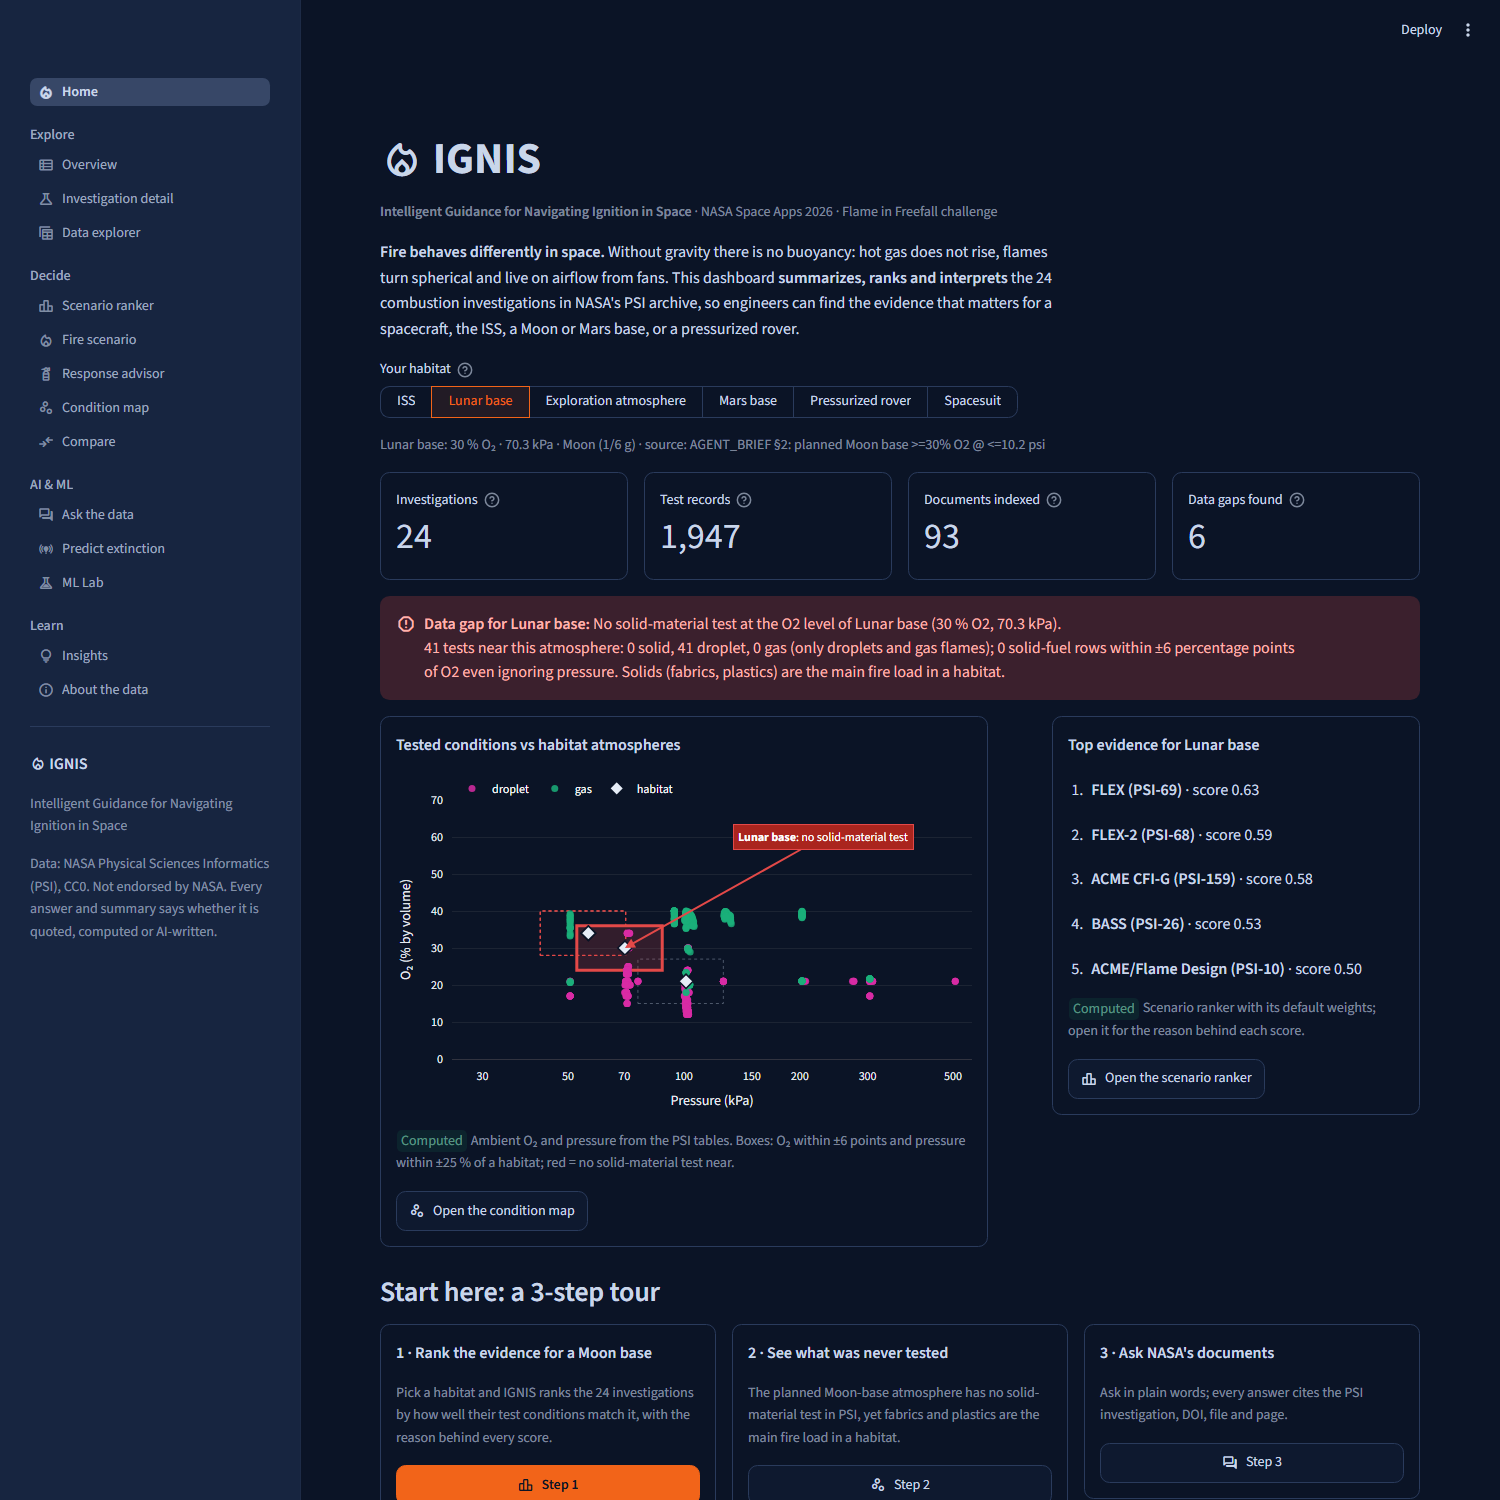
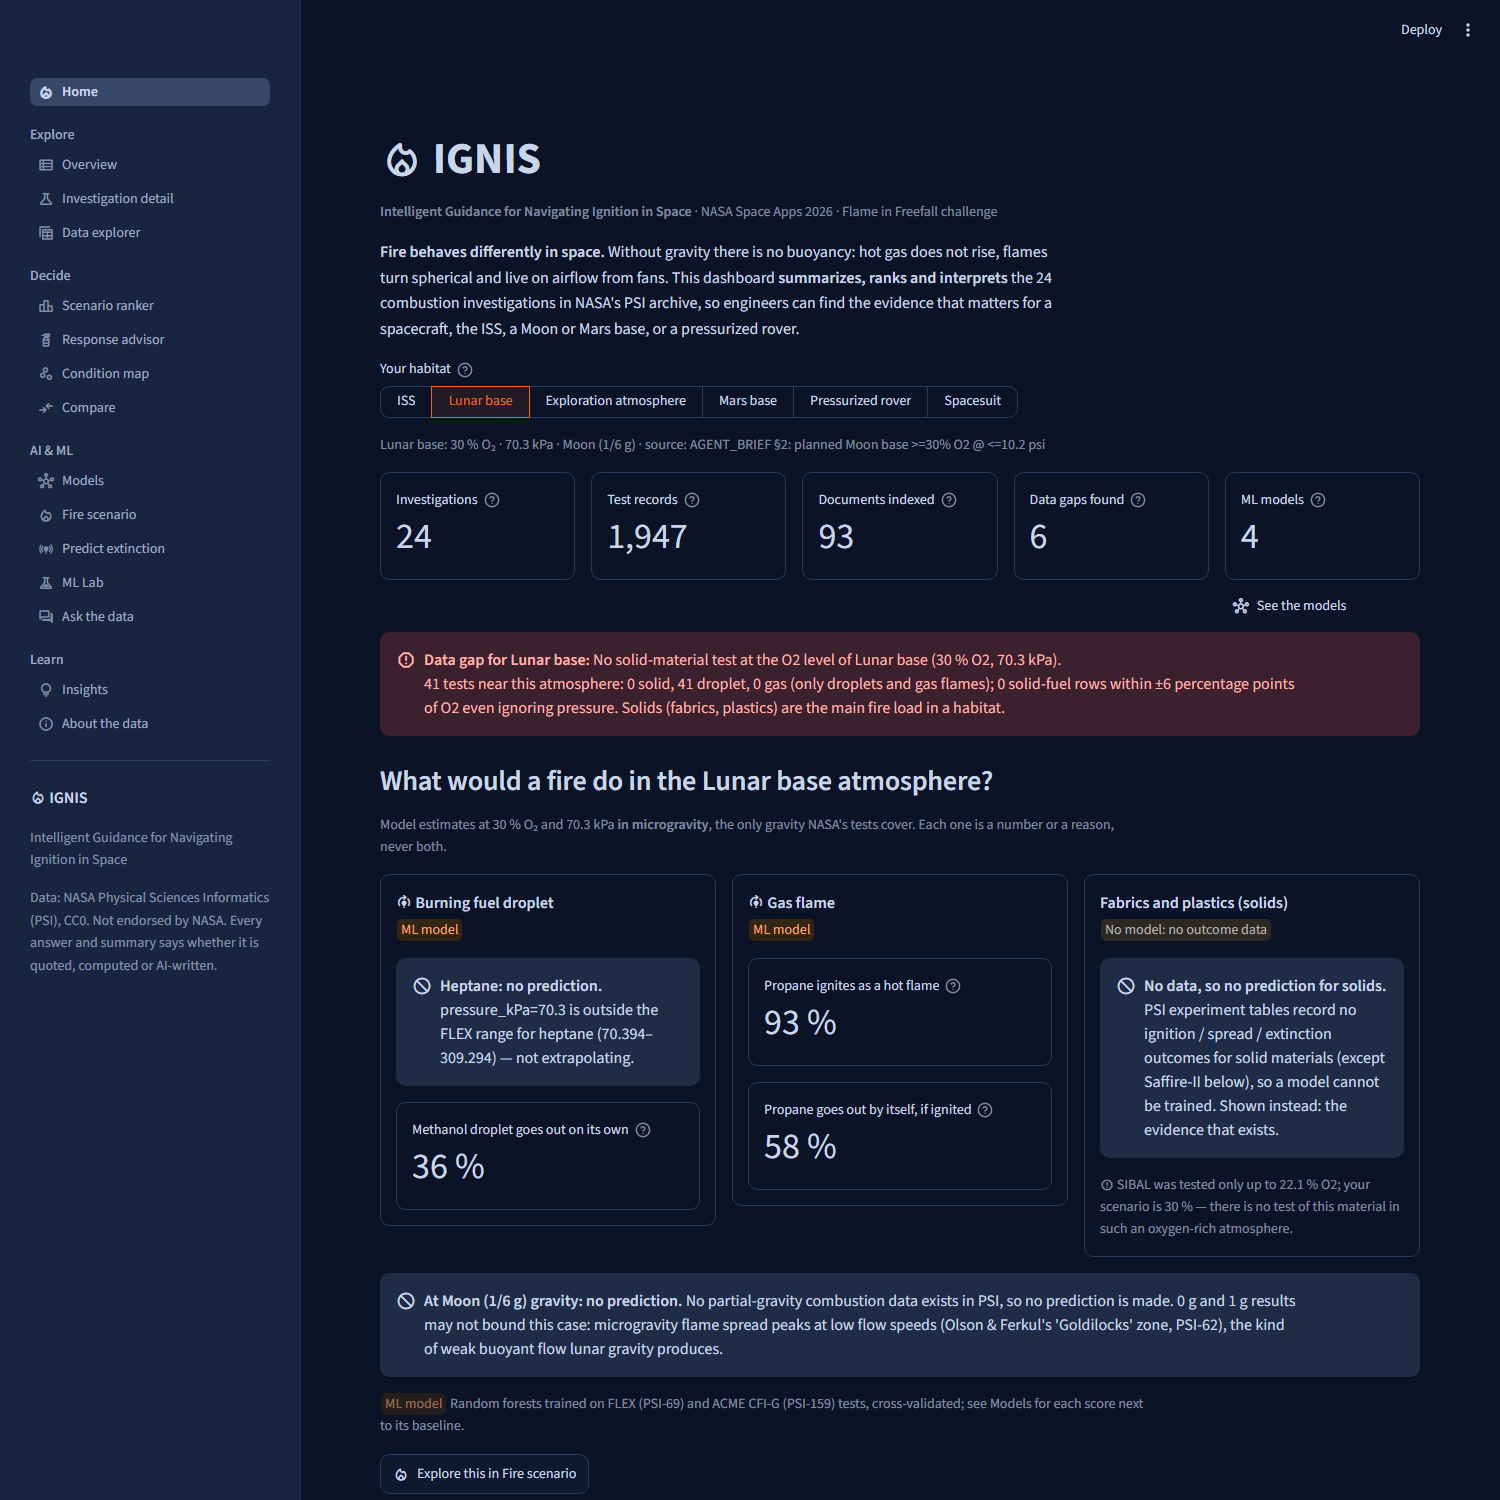
Home: "What would a fire do here?" ML widget for the picked habitat + ML models card
- The habitat picker now also drives model estimates from processed/analysis/habitat_predictions.json
  (main's registry, #57): burning droplet (heptane / methanol goes out on its own), gas flame
  (propane ignites / goes out if ignited), and the designed "no data" state for fabrics and plastics
  with the habitat's solid-material gap. Each value is a number or its reason, never both; Moon / Mars
  get their own "no prediction at this gravity" box. Static copy -> Home never trains a model.
- Number cards: "ML models: 4" with a link to the Models page.
- "Explore this in Fire scenario" opens it with the same habitat.
- Test: Lunar base shows propane ignition, a heptane refusal with its reason (70.3 kPa is just below
  FLEX's range) and no heptane number, "no data" for solids, and the Moon gravity statement.

Refs #58

diff --git a/app/views/home.py b/app/views/home.py
@@ -7,7 +7,7 @@ import streamlit as st
 
 from ai.habitats import HABITATS
 from ai.ranking import rank
-from app import data, ui
+from app import data, ml_ui, ui
 from app.nav import APP_NAME, APP_TAGLINE, CHALLENGE, grouped
 
 invs = data.investigations()
@@ -30,8 +30,9 @@ hc = data.habitat_coverage(habitat)
 st.caption(f"{habitat}: {h['o2_frac'] * 100:g} % O₂ · {h['pressure_kPa']:g} kPa · "
            f"{data.GRAVITY_OPTIONS.get(h.get('gravity'), 'gravity not set')} · source: {h.get('source', '—')}")
 
-# ---------------------------------------------------------------- four headline numbers
-cols = st.columns(4)
+# ---------------------------------------------------------------- headline numbers
+ml_models = [m for m in data.ml_specs() if m.get("kind") == "ml"]
+cols = st.columns(5)
 for col, (label, key, fallback, hlp) in zip(cols, [
     ("Investigations", "investigations", len(invs),
      "Combustion Science investigations in NASA PSI (flight + ground studies)"),
@@ -44,6 +45,9 @@ for col, (label, key, fallback, hlp) in zip(cols, [
 ]):
     v = data.key_number(key, fallback)
     ui.metric_card(col, label, f"{v:,}" if isinstance(v, int) else (v or "—"), help=hlp)
+ui.metric_card(cols[4], "ML models", len(ml_models) or "—",
+               help="Models trained and cross-validated on the PSI test tables (FLEX droplets, ACME CFI-G gas flames).")
+cols[4].page_link("views/models.py", label="See the models", icon=ui.ICONS["models"])
 
 # ---------------------------------------------------------------- gap banner for this habitat
 gaps = data.gaps_for(habitat)
@@ -57,6 +61,60 @@ elif hc:
                        f"({phases.get('solid', 0)} solid, {phases.get('droplet', 0)} droplet, {phases.get('gas', 0)} gas). "
                        f"{o2_only} solid-material tests match its O₂ level but their PSI table has no pressure column.")
 
+
+# ---------------------------------------------------------------- what would a fire do here? (ML, #58)
+def _pct(x) -> str:
+    return f"{x * 100:.0f} %"
+
+
+def _inputs_line(inputs: dict) -> str:
+    keep = {k: v for k, v in inputs.items() if k not in ("fuel", "o2_frac", "pressure_kPa")}
+    return ", ".join(f"{ml_ui.COLUMN.get(k, k).lower()} {v:g}" for k, v in keep.items() if isinstance(v, (int, float)))
+
+
+hp = data.habitat_prediction(habitat)
+ui.section(f"What would a fire do in the {habitat} atmosphere?")
+if not hp:
+    ui.empty_state("Model estimates are not available (processed/analysis/habitat_predictions.json is missing).")
+else:
+    mg = hp.get("in_microgravity") or {}
+    st.caption(f"Model estimates at {hp['o2_frac'] * 100:g} % O₂ and {hp['pressure_kPa']:g} kPa **in microgravity**, the "
+               "only gravity NASA's tests cover. Each one is a number or a reason, never both.")
+    c1, c2, c3 = st.columns(3)
+    with ui.card(c1):
+        st.markdown(f"**{ml_ui.ICON} Burning fuel droplet**  \n{ml_ui.KIND_BADGE['ml']}")
+        for r in mg.get("droplet_goes_out", []):
+            if r.get("value") is not None:
+                ui.metric_card(st, f"{r['fuel']} droplet goes out on its own", _pct(r["value"]),
+                               help=f"FLEX random forest; inputs: {_inputs_line(r['inputs'])}.")
+            else:
+                ml_ui.no_prediction(r["reason"], title=f"{r['fuel']}: no prediction")
+    with ui.card(c2):
+        st.markdown(f"**{ml_ui.ICON} Gas flame**  \n{ml_ui.KIND_BADGE['ml']}")
+        for key, label in (("gas_ignites", "ignites as a hot flame"), ("gas_goes_out", "goes out by itself, if ignited")):
+            for r in mg.get(key, []):
+                if r.get("value") is not None:
+                    ui.metric_card(st, f"{r['fuel'].capitalize()} {label}", _pct(r["value"]),
+                                   help=f"ACME CFI-G random forest; inputs: {_inputs_line(r['inputs'])}.")
+                else:
+                    ml_ui.no_prediction(r["reason"], title=f"{r['fuel'].capitalize()}: no prediction")
+    with ui.card(c3):
+        st.markdown("**Fabrics and plastics (solids)**  \n:gray-badge[No model: no outcome data]")
+        sol = hp.get("solids") or {}
+        reason = (sol.get("reason") or "PSI has no outcome data for solid materials.").replace(
+            "(except Saffire-II below)", "(except the Saffire-II comparison, shown on Fire scenario)")
+        ml_ui.no_prediction(reason, title="No data, so no prediction for solids")
+        if sol.get("gap"):
+            st.caption(f":material/report: {sol['gap']}")
+    grav = (hp.get("at_habitat_gravity") or {}).get("statement")
+    if grav:
+        ml_ui.no_prediction(grav, title=f"At {data.GRAVITY_OPTIONS.get(hp.get('gravity'), 'this')} gravity: "
+                                        "no prediction")
+    ui.provenance_label("ml", "Random forests trained on FLEX (PSI-69) and ACME CFI-G (PSI-159) tests, cross-validated; "
+                              "see Models for each score next to its baseline.")
+    if st.button("Explore this in Fire scenario", icon=ui.ICONS["scenario"], key="home_fire"):
+        st.session_state["fs_preset"] = habitat
+        st.switch_page("views/scenario.py")
 
 # ---------------------------------------------------------------- map preview | top evidence
 def map_preview(focus: str) -> go.Figure:

diff --git a/app/tests/test_app_pages.py b/app/tests/test_app_pages.py
@@ -642,7 +642,8 @@ def test_response_advisor_related_evidence_without_a_key(monkeypatch):
 def test_home_habitat_picker_drives_gap_map_and_top5():
     at = AppTest.from_file(str(APP_DIR / "main.py"), default_timeout=TIMEOUT).run()   # Home needs the navigation
     assert not at.exception, at.exception
-    assert [m.label for m in at.metric] == ["Investigations", "Test records", "Documents indexed", "Data gaps found"]
+    assert [m.label for m in at.metric][:5] == ["Investigations", "Test records", "Documents indexed",
+                                                "Data gaps found", "ML models"]
     assert any("Data gap for Lunar base" in e.value for e in at.error)            # the gap is red everywhere
     assert any("Top evidence for Lunar base" in m.value for m in at.markdown)
     assert len(at.get("plotly_chart")) == 1
@@ -720,3 +721,26 @@ def test_detail_guide_citations_do_not_show_a_psi_doi(monkeypatch):
     at.run()
     line = next(m.value for m in at.markdown if "A guide finding." in m.value)
     assert "NASA Researcher's Guide" in line and "nasa.gov" in line and "doi.org" not in line
+
+
+# ---------------------------------------------------------------- #58 ML on the pages
+def test_home_ml_widget_for_lunar_base():
+    """Lunar base: microgravity estimates where FLEX / CFI-G cover it, a reason where they do not, and the
+    designed 'no data' state for solids. Values come from processed/analysis/habitat_predictions.json."""
+    import json
+    hp = next(h for h in json.loads((APP_DIR.parent / "processed/analysis/habitat_predictions.json")
+                                    .read_text(encoding="utf-8")) if h["habitat"] == "Lunar base")
+    at = AppTest.from_file(str(APP_DIR / "main.py"), default_timeout=TIMEOUT).run()
+    assert not at.exception, at.exception
+    assert any(s.value == "What would a fire do in the Lunar base atmosphere?" for s in at.subheader)
+    metrics = {m.label: m.value for m in at.metric}
+    assert metrics["ML models"] == "4"
+    gas = hp["in_microgravity"]["gas_ignites"][0]
+    assert metrics[f"{gas['fuel'].capitalize()} ignites as a hot flame"] == f"{gas['value'] * 100:.0f} %"
+    info = " ".join(i.value for i in at.info)
+    assert "No data, so no prediction for solids" in info and "outcomes for solid materials" in info   # a result
+    for r in hp["in_microgravity"]["droplet_goes_out"]:
+        if r["value"] is None:                                                          # heptane at 70.3 kPa: refused
+            assert f"{r['fuel']}: no prediction" in info and "not extrapolating" in info
+            assert not any(k.startswith(r["fuel"]) for k in metrics)                    # ...and no number for it
+    assert "At Moon (1/6 g) gravity: no prediction" in info

diff --git a/app/data.py b/app/data.py
@@ -280,6 +280,27 @@ def flex_boundary() -> dict | None:
     return _json_or_none(str(p), _mtime(p))
 
 
+def habitat_predictions() -> list[dict]:
+    """processed/analysis/habitat_predictions.json (main's registry, #57): per habitat the microgravity model
+    values or their reasons, the gravity statement and the solids state. The static copy keeps Home instant
+    (the live registry.habitat_predictions() trains the models first)."""
+    p = ANALYSIS / "habitat_predictions.json"
+    return _json_or_none(str(p), _mtime(p)) or []
+
+
+def habitat_prediction(name: str) -> dict:
+    return next((h for h in habitat_predictions() if h.get("habitat") == name), {})
+
+
+def ml_specs() -> list[dict]:
+    """The model registry entries (static JSON, instant); [] if the registry is unavailable."""
+    try:
+        from analysis import registry
+        return registry.specs()
+    except Exception:  # noqa: BLE001 - the pages must render without the analysis layer
+        return []
+
+
 def similarity() -> dict | None:
     """processed/analysis/similarity.json (#24): 2-D map, clusters, neighbours, or None."""
     p = ANALYSIS / "similarity.json"
